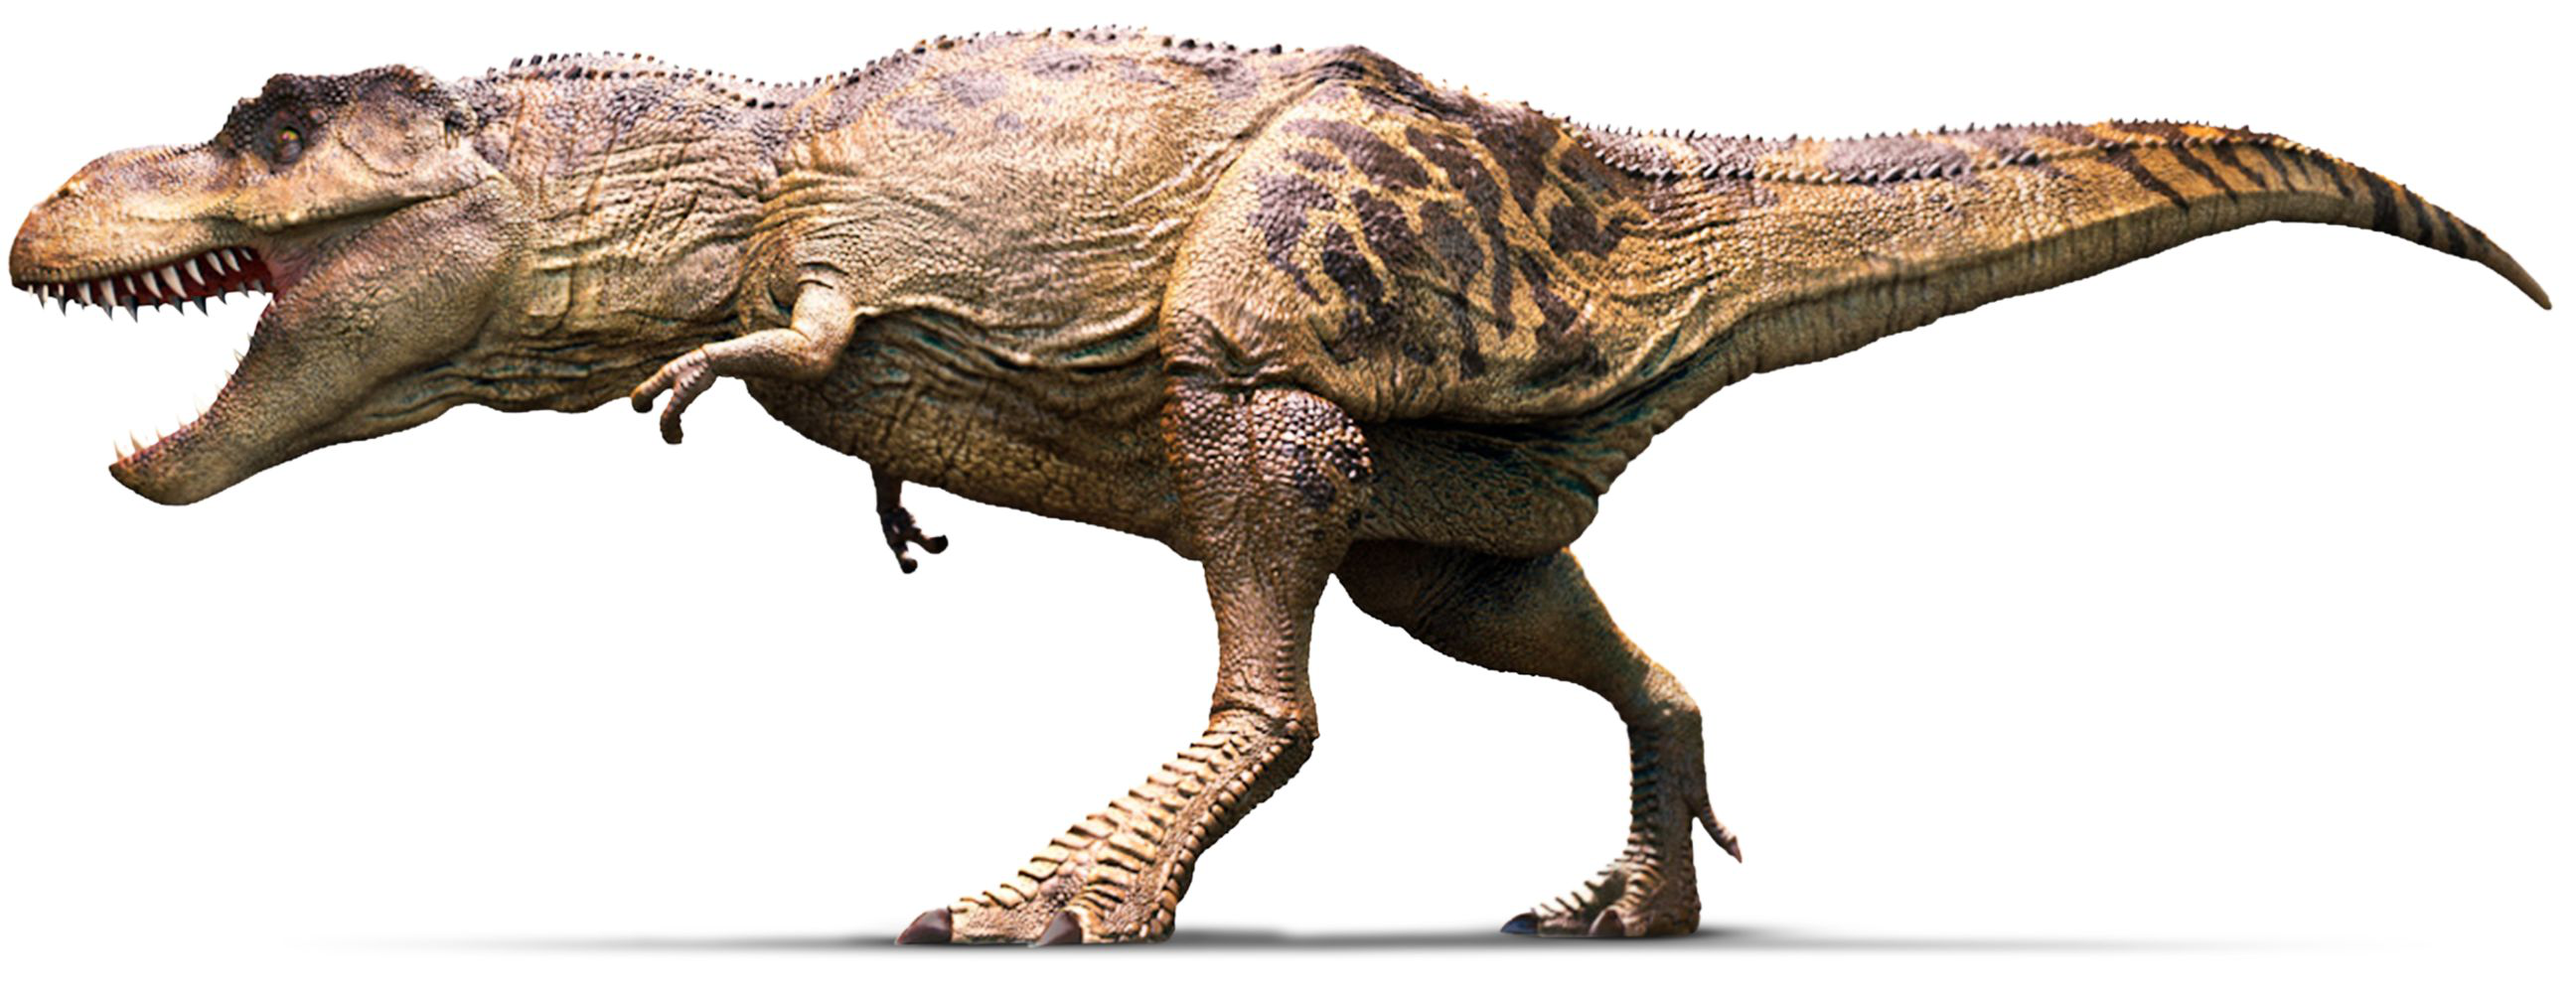
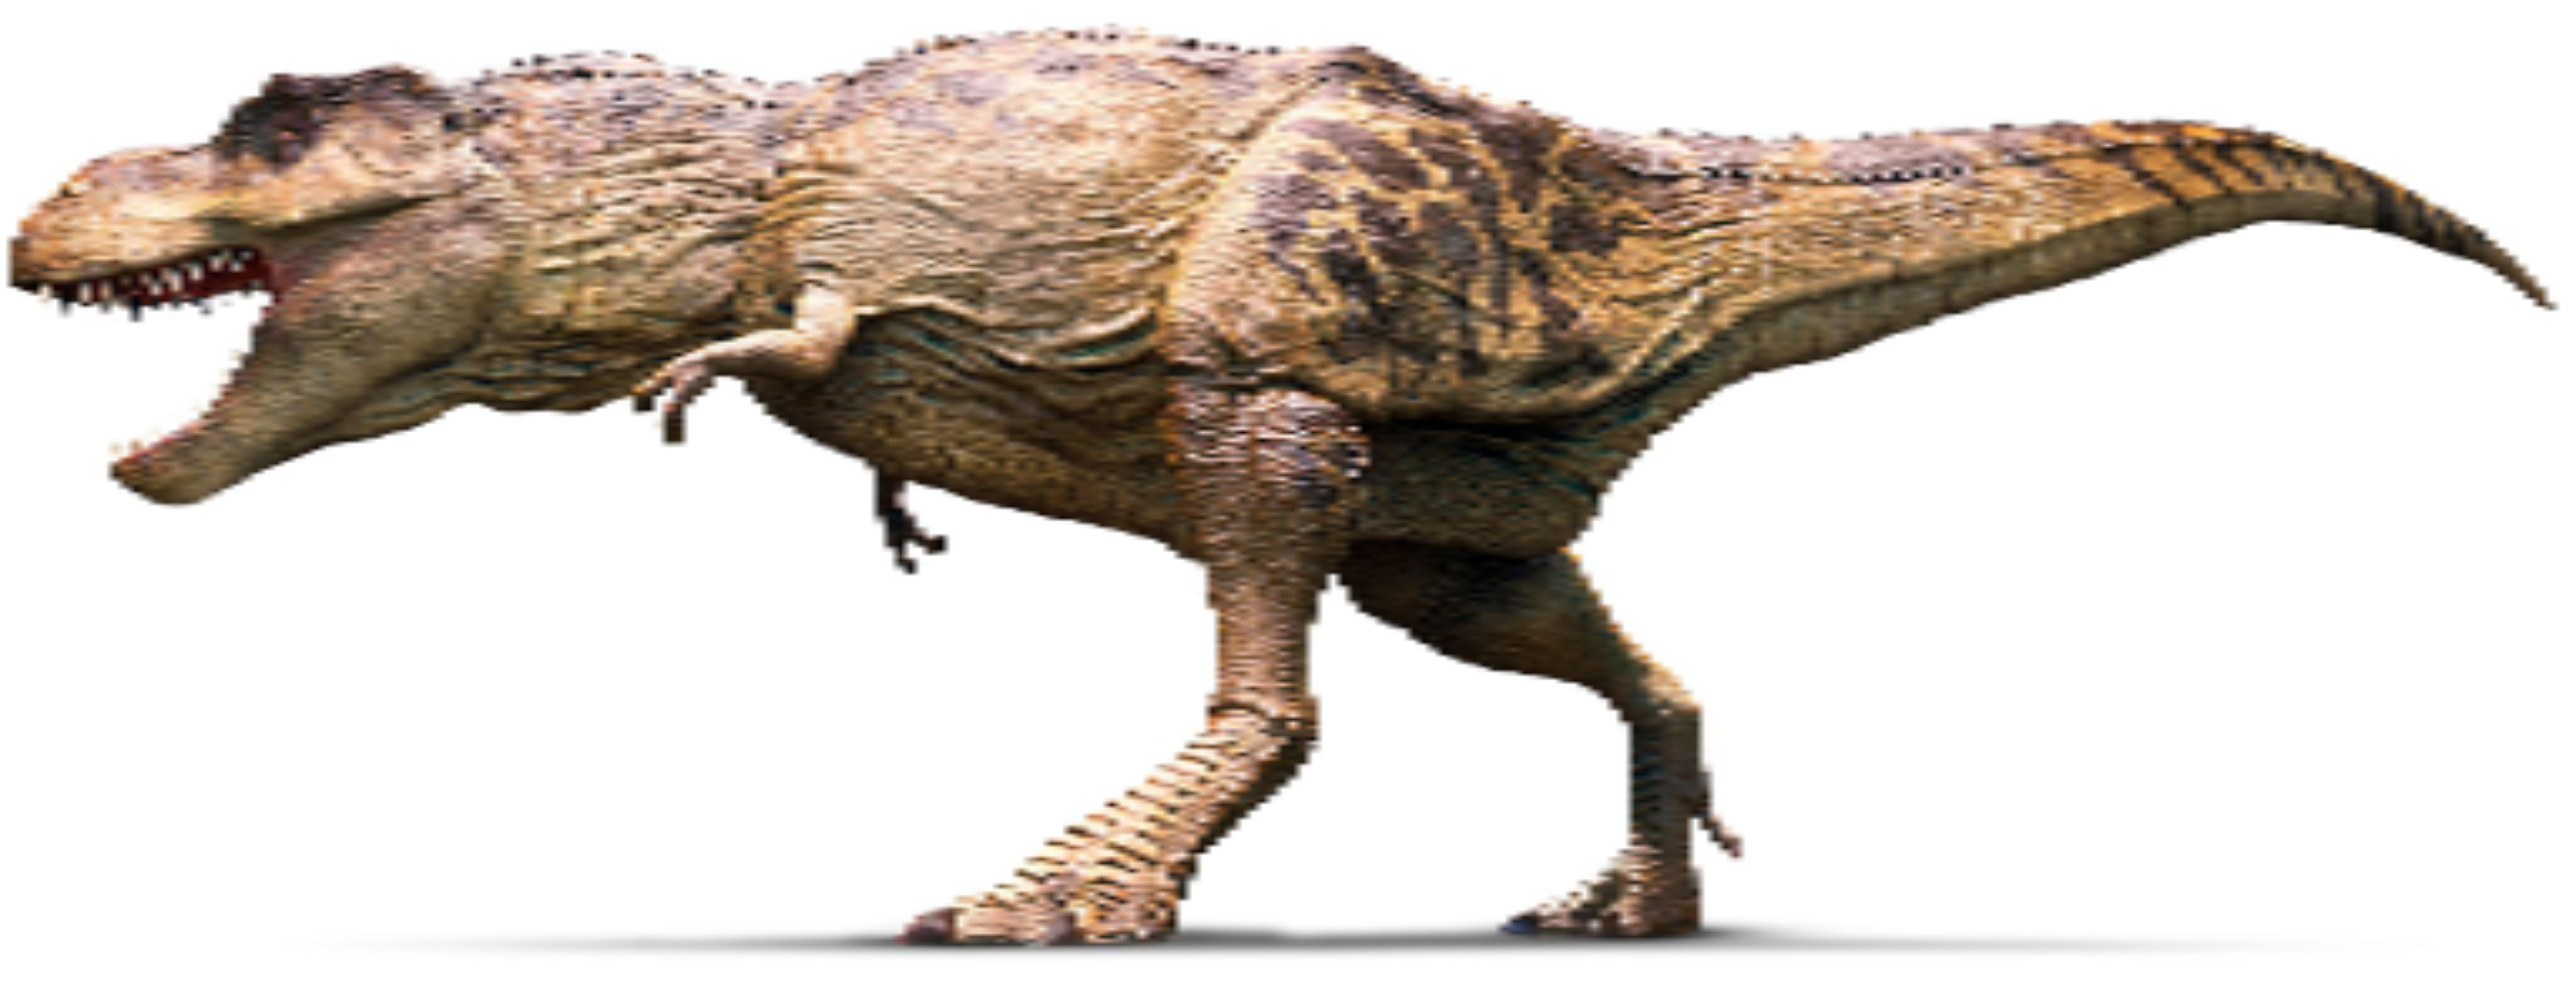
8 bit convert

diff --git a/8bitmaker.py b/8bitmaker.py
@@ -13,8 +13,9 @@ for file in files:
     new_path = os.path.join(new_path, new_name)
     image = Image.open(image_path)
     image.save(new_path)
-    
-
-    
-
-
+    picture = cv2.imread(new_path)
+    height, width = picture.shape[:2]
+    w, h = (256, 256)
+    temp = cv2.resize(picture, (w, h), interpolation = cv2.INTER_LINEAR)
+    output = cv2.resize(temp, (width, height), interpolation=cv2.INTER_LINEAR)
+    cv2.imwrite(new_path, output)
